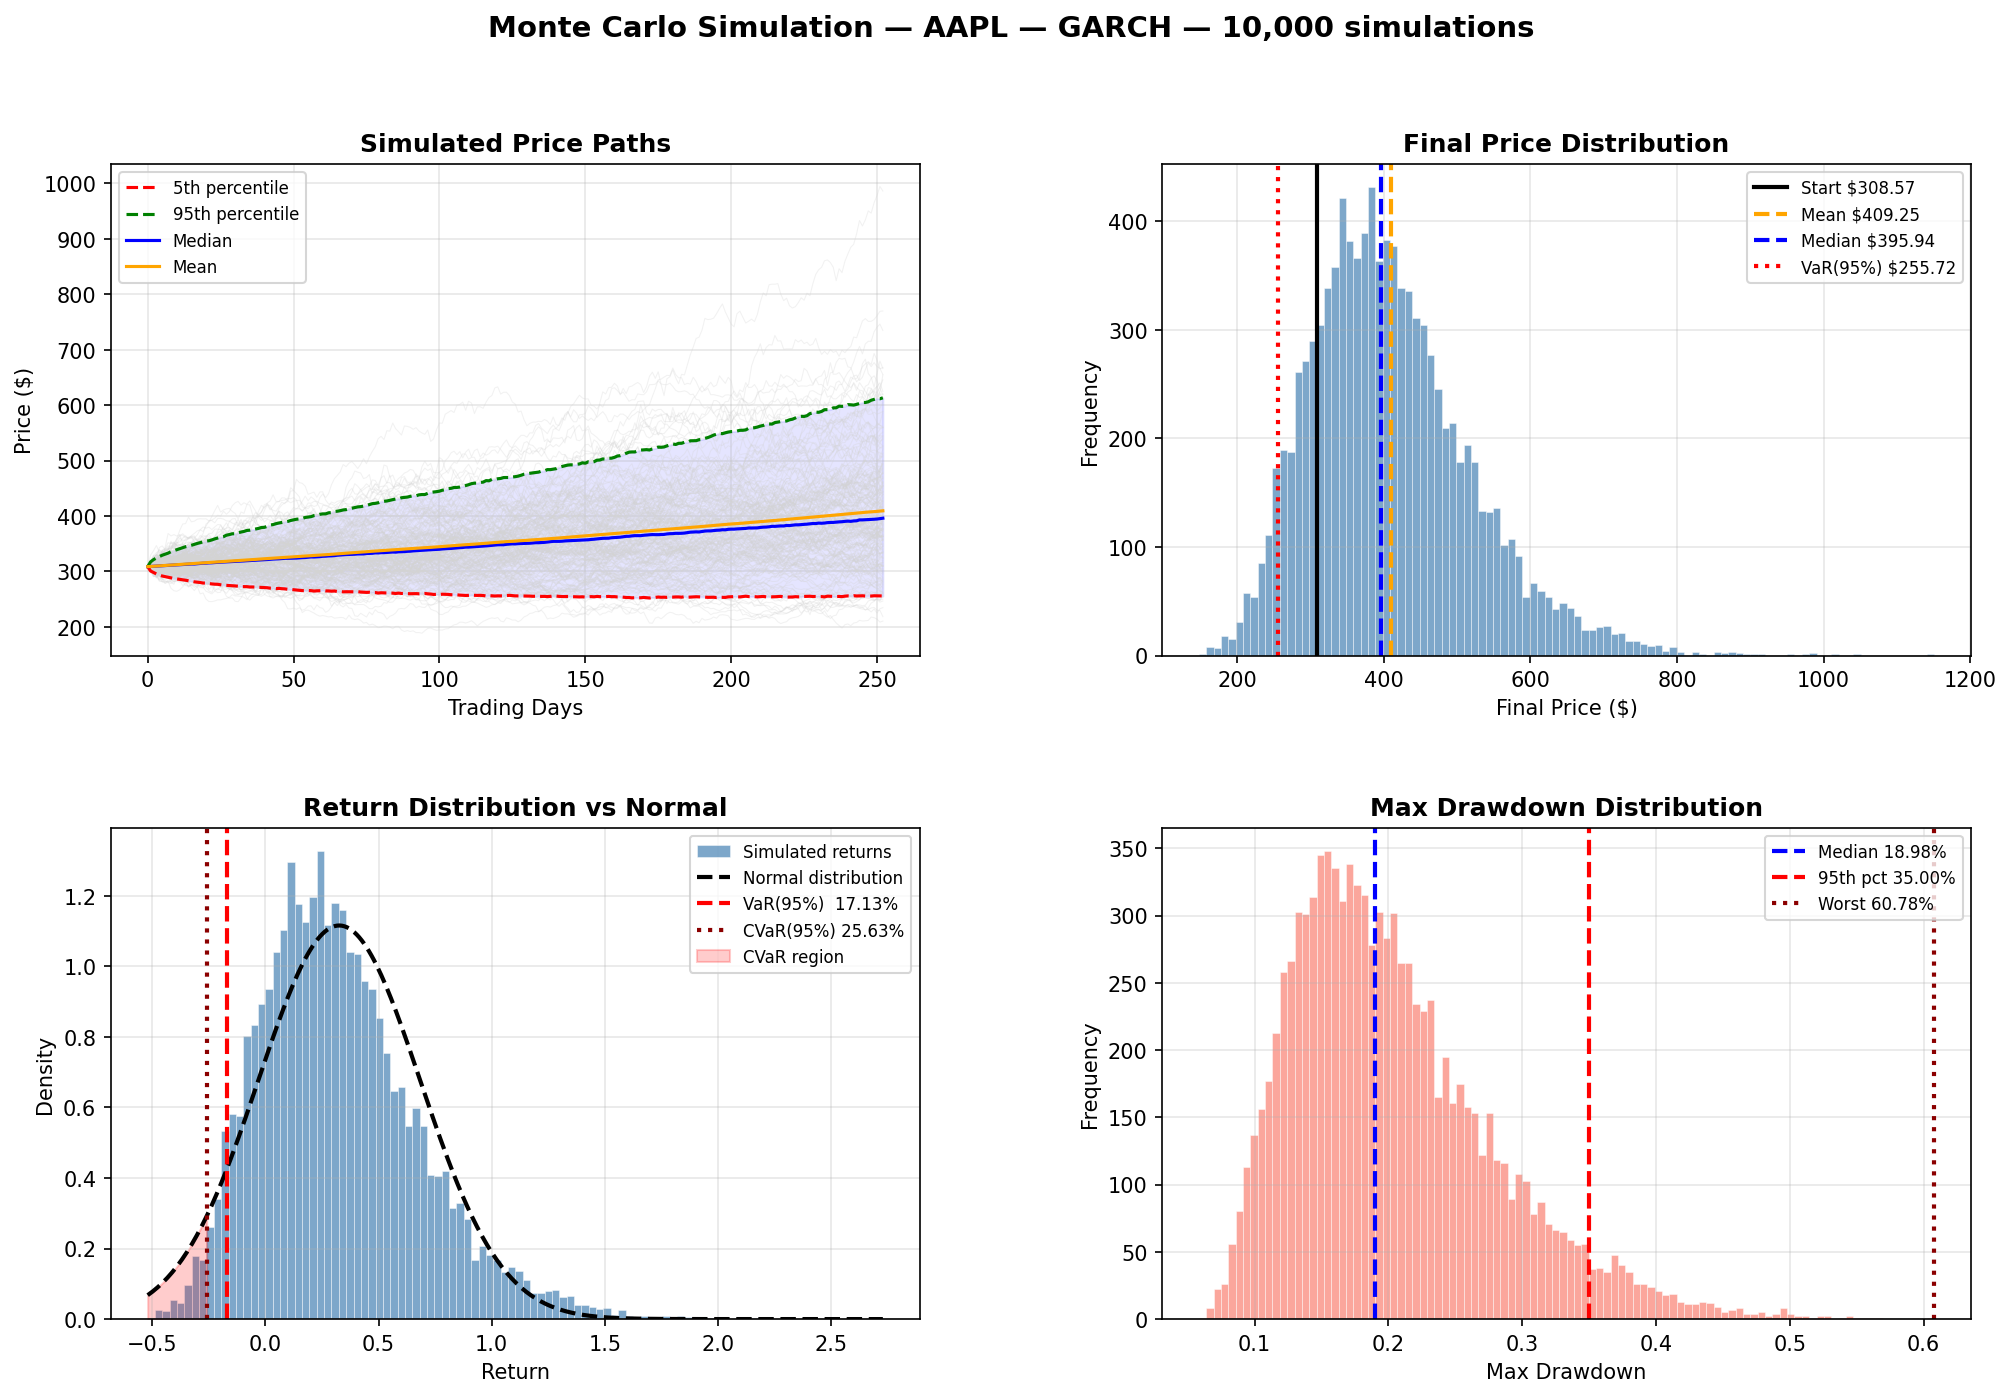
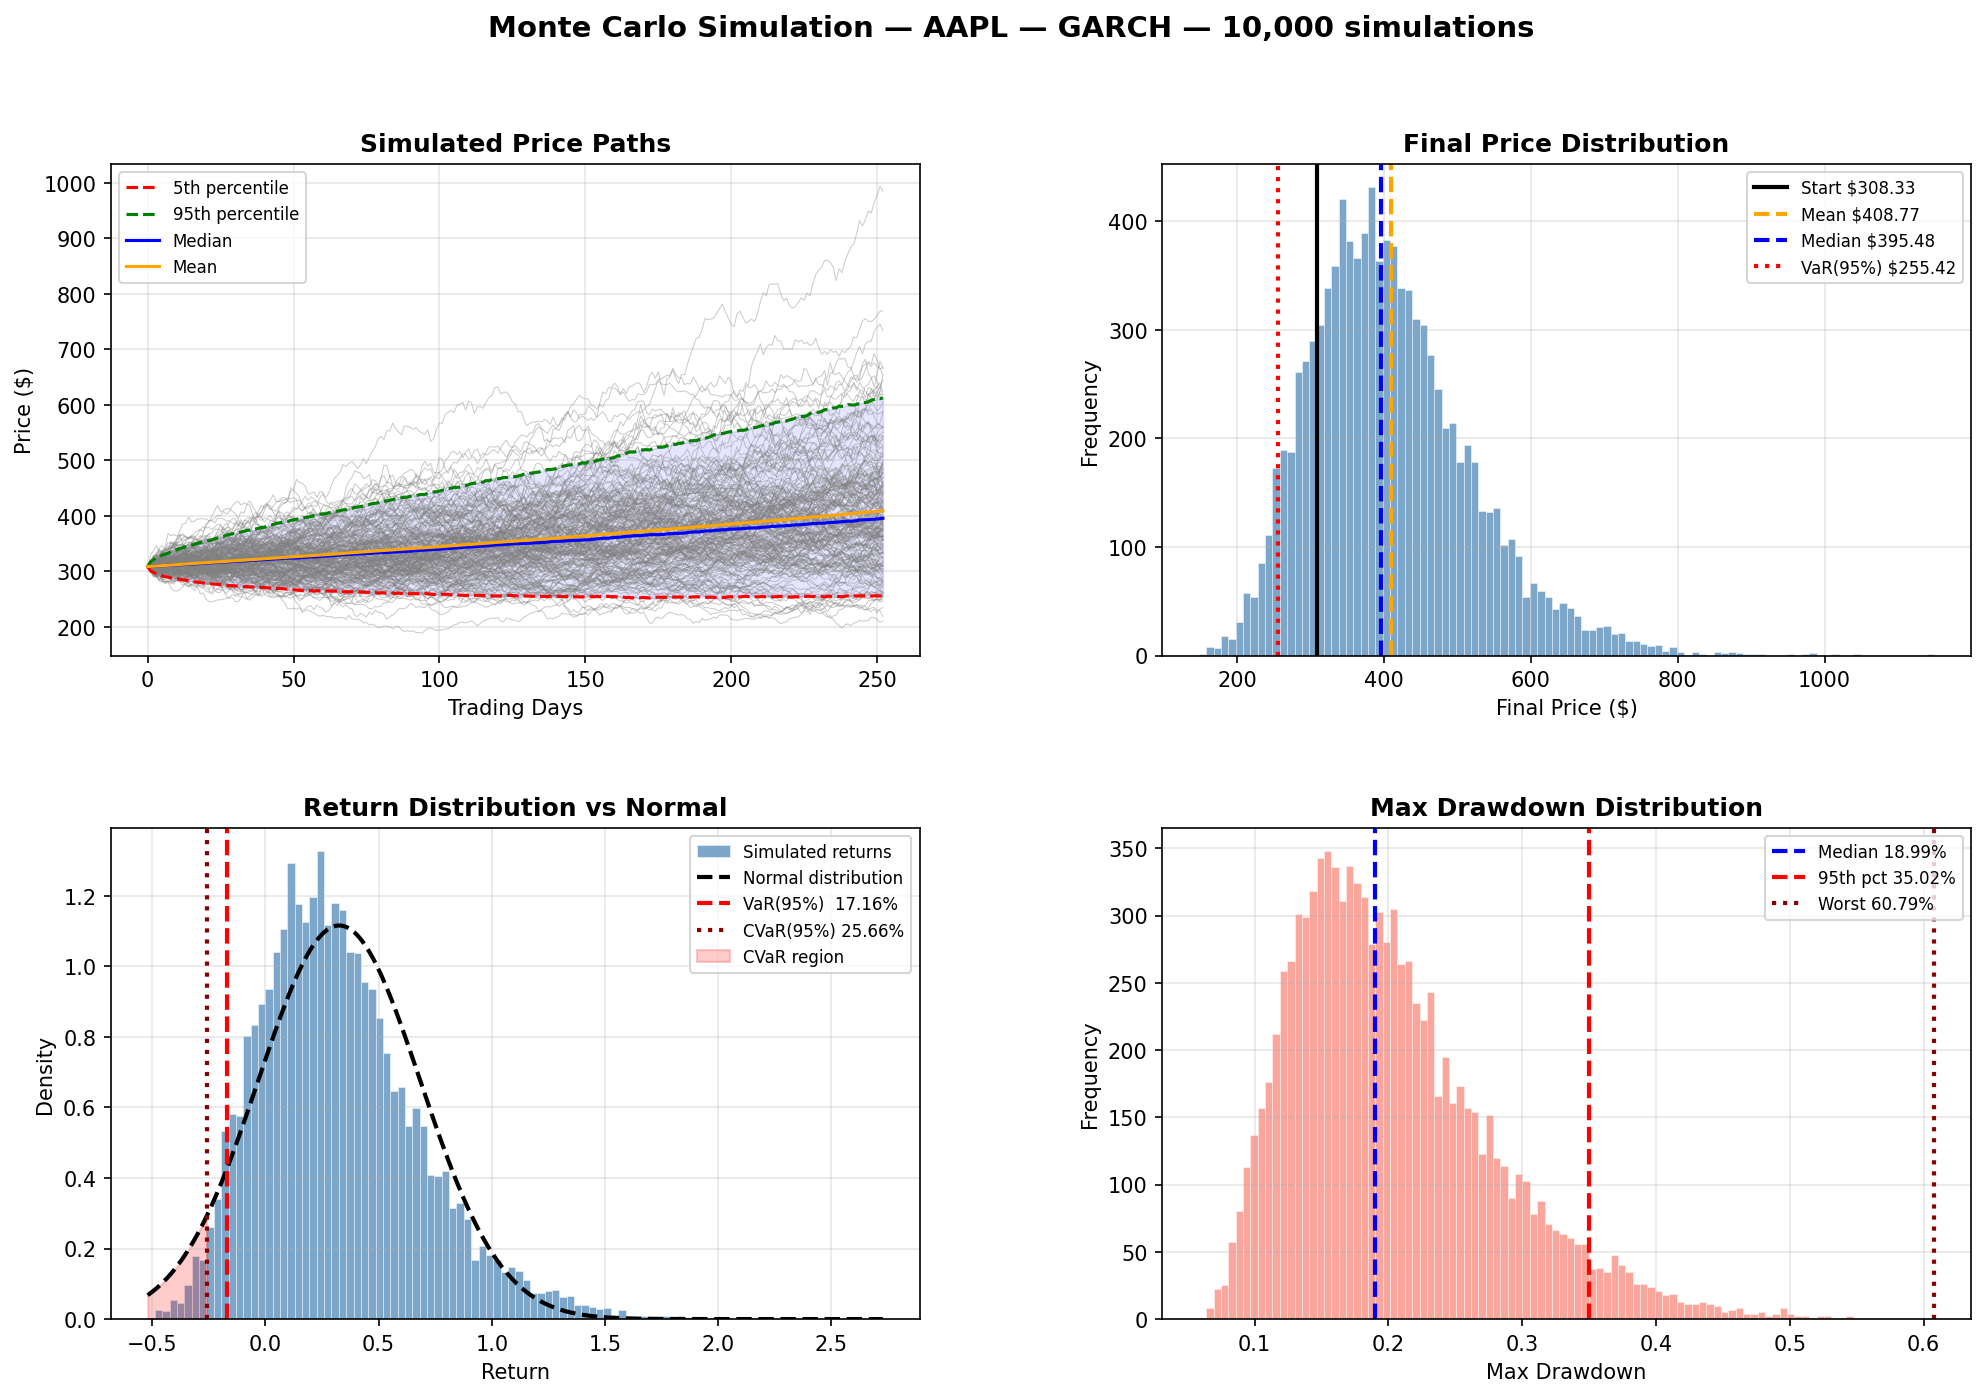
Made graph lines darker so they're more visible

diff --git a/plots/visualizer.py b/plots/visualizer.py
@@ -57,7 +57,7 @@ def _plot_fan_chart(ax, paths: np.ndarray, info: dict, config) -> None:
     # Plot random sample of paths in light gray
     sample_idx = np.random.choice(n_sims, size=min(200, n_sims), replace=False)
     for idx in sample_idx:
-        ax.plot(t, paths[idx], color='lightgray', alpha=0.3, linewidth=0.5)
+        ax.plot(t, paths[idx], color='gray', alpha=0.4, linewidth=0.5)
 
     # Plot percentile bands
     p5  = np.percentile(paths, 5,  axis=0)